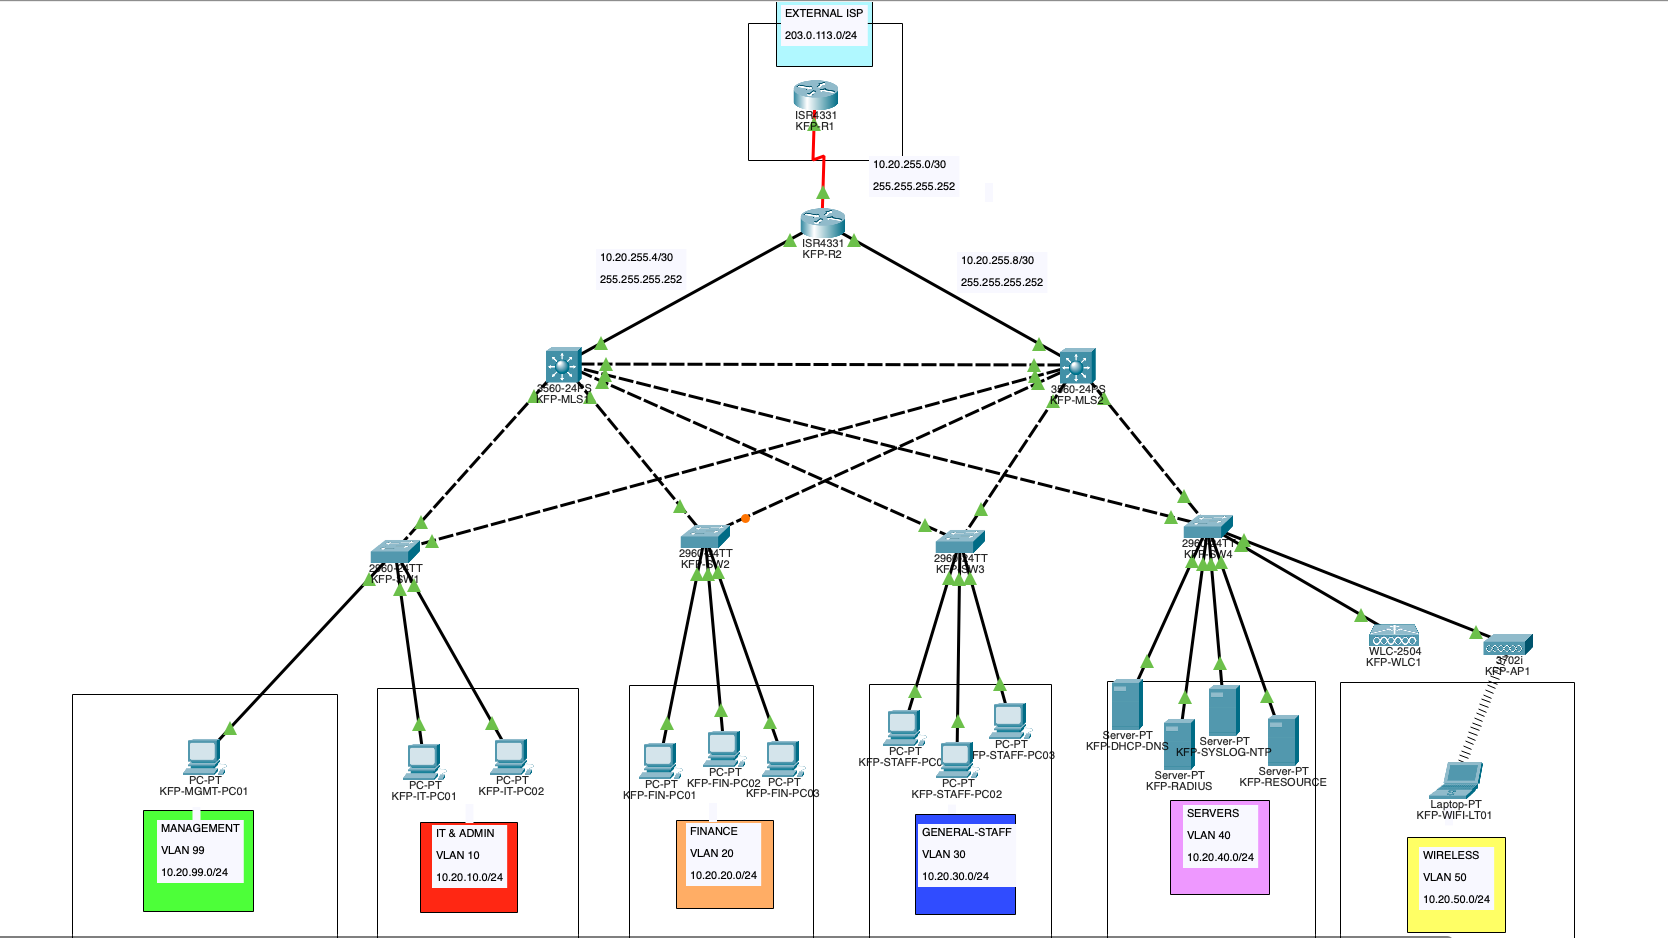
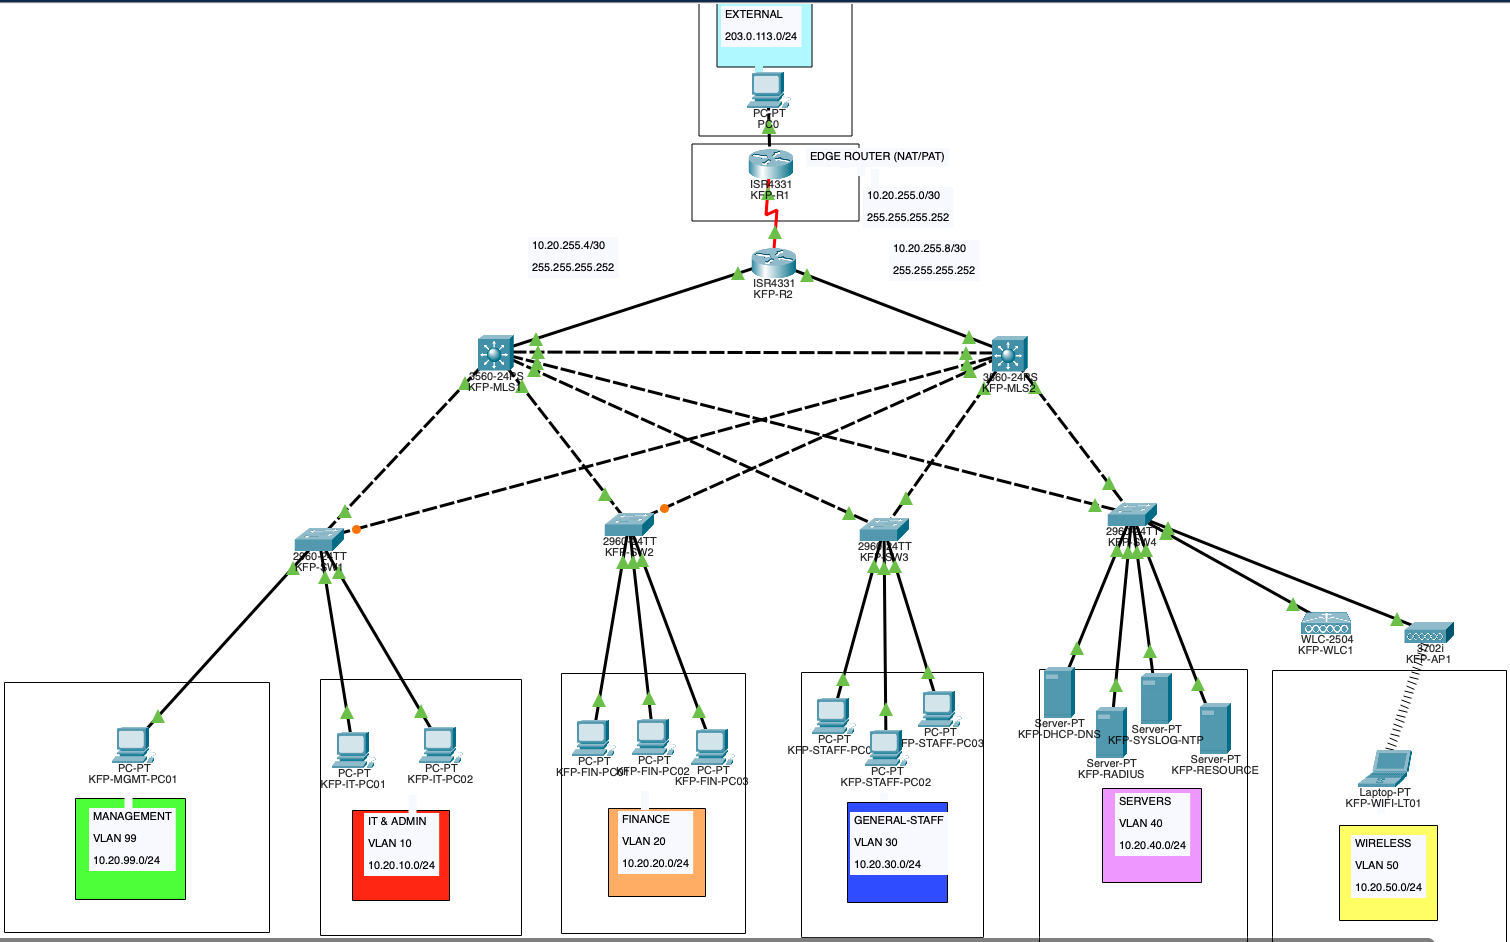
Update enterprise capstone page from the team repository
Rewrite the capstone entry with details from the IT491 Cisco Team 3
repo: the built network, the team's roles and Trello workflow, my own
part and test results, challenges, and remaining work. Replace the
topology image with the current Packet Tracer build.

Claude-Session: https://claude.ai/code/session_01PqXA4c5nvDHHK5ckUtxAZa

Changed region(s): [[0.0, 0.0, 1.0, 1.0], [0.996, 0.7111, 1.0, 1.0]]

diff --git a/src/data/projects.ts b/src/data/projects.ts
@@ -63,46 +63,49 @@ export const projects: Project[] = [
   {
     slug: "enterprise-network-capstone",
     title: "Enterprise network capstone",
-    where: "Packet Tracer",
+    where: "Team project",
     summary:
-      "A financial-services office turned from a written requirements list into six VLANs, central servers and clear security boundaries.",
+      "A four-person team project: a financial-services office rebuilt in Packet Tracer with six VLANs, OSPF, central DHCP, DNS, RADIUS, Syslog and NTP, and ACLs tested in both directions.",
     status: "In progress",
     featured: true,
     tags: ["Networking", "Security"],
     tech: [
+      "Cisco Packet Tracer",
       "Cisco ISR 4331",
       "Catalyst 3560 and 2960",
-      "Port security, PortFast, BPDU Guard",
-      "Cisco Packet Tracer",
-      "VLANs",
-      "802.1Q",
-      "Inter-VLAN routing",
-      "DHCP",
+      "WLC 2504 and 3702i AP",
+      "VLANs and 802.1Q",
+      "OSPF",
+      "DHCP relay",
       "DNS",
       "RADIUS/AAA",
       "SSH",
-      "Syslog",
-      "NTP",
-      "ACLs",
+      "Syslog and NTP",
+      "Extended ACLs",
       "NAT/PAT",
+      "Port security, PortFast, BPDU Guard",
+      "Trello",
+      "Git and GitHub",
     ],
     thumbnail: capstone,
     images: [
       {
         src: capstone,
         wide: true,
-        alt: "Packet Tracer topology: an ISP uplink, two border routers, two multilayer switches, four access switches and six VLAN segments for management, IT/admin, finance, general staff, servers and wireless",
+        alt: "Packet Tracer topology: an external network at 203.0.113.0/24, the KFP-R1 edge router doing NAT/PAT over a serial link to KFP-R2, two multilayer switches, four access switches, and VLANs for management (99), IT and admin (10), finance (20), general staff (30), servers (40) and wireless (50) with a WLC and lightweight AP",
       },
     ],
     overview:
-      "The client is Kestrel Financial Partners, a fictional finance firm that has outgrown a flat, loosely managed office network: no separation between departments, no central login for admins, no control over who can reach the finance systems and no visibility into what's happening. Our four-person team has eight weeks (29 September to 24 November 2026) to replace it with something segmented, authenticated, access-controlled and monitored, built to one documented standard. The hard part isn't any single technology; it's proving they all work together.",
+      "This is a team project: four of us, eight weeks (29 September to 24 November 2026), one network. The client is Kestrel Financial Partners, a fictional finance firm that has outgrown a flat, loosely managed office network: no separation between departments, no central login for admins, no control over who can reach the finance systems and no visibility into what's happening. Each of us owned one area (architecture, switching and routing, network services, security and testing) and built it to a single shared build standard. We ran the work as four Agile sprints and tracked it on a shared Trello board: every user story was a card with an owner and a due date, so at the weekly meeting it was clear who was doing what and what was blocked, and the evidence for each card went into the team's GitHub repository. The hard part isn't any single technology; it's proving they all work together.",
     built: [
-      "Designed the logical topology and the IPv4 addressing plan: six VLANs for IT/Admin, Finance, General Staff, Servers, Management and Wireless.",
-      "Placed the hardware: two ISR 4331 routers (edge and core), two Catalyst 3560 multilayer switches for inter-VLAN routing, four Catalyst 2960 access switches and a wireless access point.",
-      "Put the shared services in Server VLAN 40 (10.20.40.0/24): DHCP/DNS, RADIUS/AAA and Syslog/NTP, each on its own server.",
-      "Planned the trunks and the inter-VLAN routing through the Layer 3 switches.",
-      "Marked where each control lives: ACLs on the distribution switches, NAT/PAT at the edge router, SSH-only management, and wireless security at the AP.",
-      "Split the build into architecture, switching and routing, services, and security workstreams so four people can work in parallel.",
+      "Routing: KFP-R1 is the edge router, doing NAT/PAT to a simulated internet (203.0.113.0/24) over a serial link to KFP-R2, the routed core. R2 connects to two Catalyst 3560 multilayer switches over /30 links, and OSPF ties all four together.",
+      "Switching: the 3560s route between VLANs through SVIs and feed four Catalyst 2960 access switches over redundant 802.1Q trunks, with an unused VLAN 999 as the native VLAN.",
+      "Central services in Server VLAN 40: one server for DHCP and DNS (10.20.40.10), one for RADIUS (10.20.40.11) and one for Syslog and NTP. DHCP reaches each user VLAN through relay on its gateway SVI; the Management VLAN stays static.",
+      "Admin access: SSH only, with 2048-bit RSA keys and Telnet refused, and admin logins checked against RADIUS with a local account as the fallback.",
+      "Segmentation: extended ACLs on the gateway SVIs (FINANCE-ACL, GENERAL-STAFF-ACL, WIRELESS-ACL) keep General Staff and Wireless out of Finance and Management while DHCP, DNS and RADIUS keep working.",
+      "Access layer: port security with sticky MACs, PortFast, BPDU Guard, DHCP snooping, storm control and shut-down unused ports on every access switch.",
+      "Wireless: a WLC 2504 and a lightweight AP authenticate users against RADIUS and switch their traffic locally into VLAN 50.",
+      "My part: OSPF and the routed links, NTP across the managed devices, RADIUS on the network devices with its local fallback, NAT/PAT on the edge router, Syslog and wireless verification, and acceptance tests T-01 (ACL segmentation), T-02 (DHCP), T-03 (DNS) and T-05 (NAT/PAT), all passed.",
     ],
     snippets: [],
     addressing: {
@@ -141,10 +144,16 @@ export const projects: Project[] = [
           "Device management, SSH only, reachable from IT and Admin",
         ],
         [
+          "999",
+          "Native VLAN",
           "—",
-          "Inter-VLAN and edge links",
+          "Unused; set as the trunk native VLAN so it carries no traffic",
+        ],
+        [
+          "—",
+          "Router links",
           "10.20.255.0/24",
-          "Point-to-point links and the NAT outside boundary",
+          "/30 point-to-point links between R1, R2 and the multilayer switches",
         ],
         [
           "—",
@@ -154,16 +163,30 @@ export const projects: Project[] = [
         ],
       ],
     },
-    next: [
-      "RADIUS and AAA for admin logins, with SSH replacing Telnet and a documented local fallback.",
-      "Extended ACLs between segments, each one tested in both the allowed and the blocked direction, and proven not to block RADIUS, DHCP or DNS.",
-      "Syslog with NTP-correct timestamps, then breaking NTP on purpose to watch the log timeline fall apart and recover.",
-      "Port security, PortFast, BPDU Guard and shut-down unused ports on every access switch.",
-      "One end-to-end test: a wireless client that joins, gets an address, resolves a name, is allowed into its own segment, blocked from Finance, reaches the internet and shows up in Syslog.",
-      "An audit where each team member checks a part of the build they didn't configure.",
+    challenges: [
+      "The scope ruled out a wireless controller, but none of Packet Tracer's standalone access points can authenticate users against RADIUS. We wrote up the conflict and got a scope amendment approved for a basic WLC and lightweight AP, limited to RADIUS and VLAN separation.",
+      "BPDU Guard, applied to SW4 as part of the access-port baseline, err-disabled the port facing the WLC. Infrastructure ports needed their own exception in the build standard.",
+      "Testing found that the edge router's inbound ACL still let the outside network reach internal subnets. The fix blocks direct external access while keeping outbound NAT/PAT working.",
+      "Packet Tracer files can't be merged, so only one person edits the master file at a time. Everyone else builds in a copy and hands the change over, and a clean checkpoint is committed before every test.",
+      "Some hardening commands, like login blocking on the 2960s and ACL logging, aren't supported in Packet Tracer. We logged them as platform limits rather than skipping them silently.",
     ],
-    challenges: [],
-    learned: [],
+    learned: [
+      "A Trello card with one owner and a due date keeps four people from building the same thing twice, or nobody building it at all.",
+      "An ACL has to be tested from both sides: the traffic it should allow, and the traffic it should block.",
+      "Breaking something on purpose, like an ACL rule that blocks DHCP, is the quickest way to prove you can find and fix it.",
+      "Having someone who didn't build a part audit it catches what the builder stopped seeing.",
+    ],
+    next: [
+      "T-10: one end-to-end test, a wireless client that joins, gets an address, resolves a name, reaches its own segment, is blocked from Finance, gets to the internet and shows up in Syslog.",
+      "T-14 and T-15: the non-author audit and the build-standard audit, with any discrepancies fixed.",
+      "The final report, exported configurations and presentation, due 24 November.",
+    ],
+    source: {
+      title: "The team repository",
+      text: "Packet Tracer checkpoints, the build standard, meeting notes and test evidence for every sprint.",
+      url: "https://github.com/benpopso/IT491-Team-3-Cisco-Team",
+      label: "View the repository on GitHub",
+    },
   },
   {
     slug: "campus-network",
